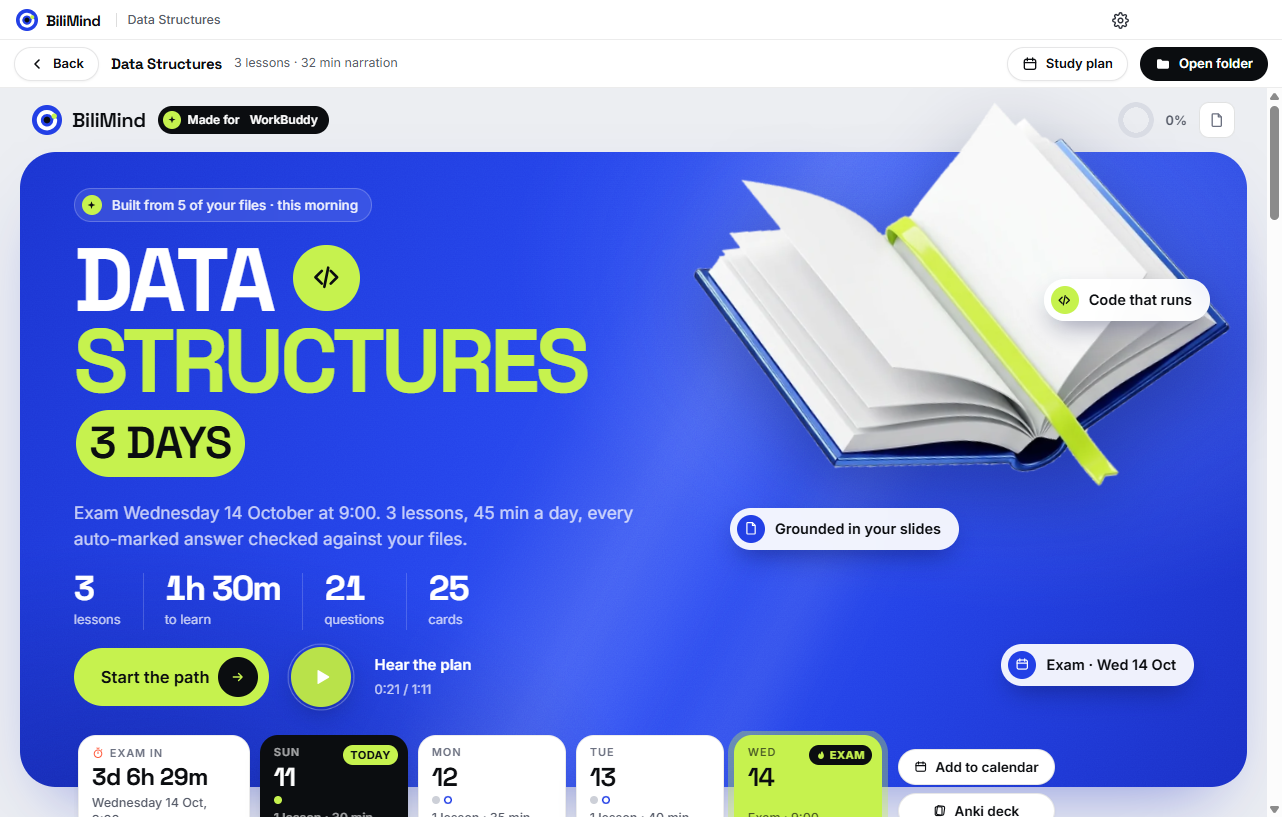
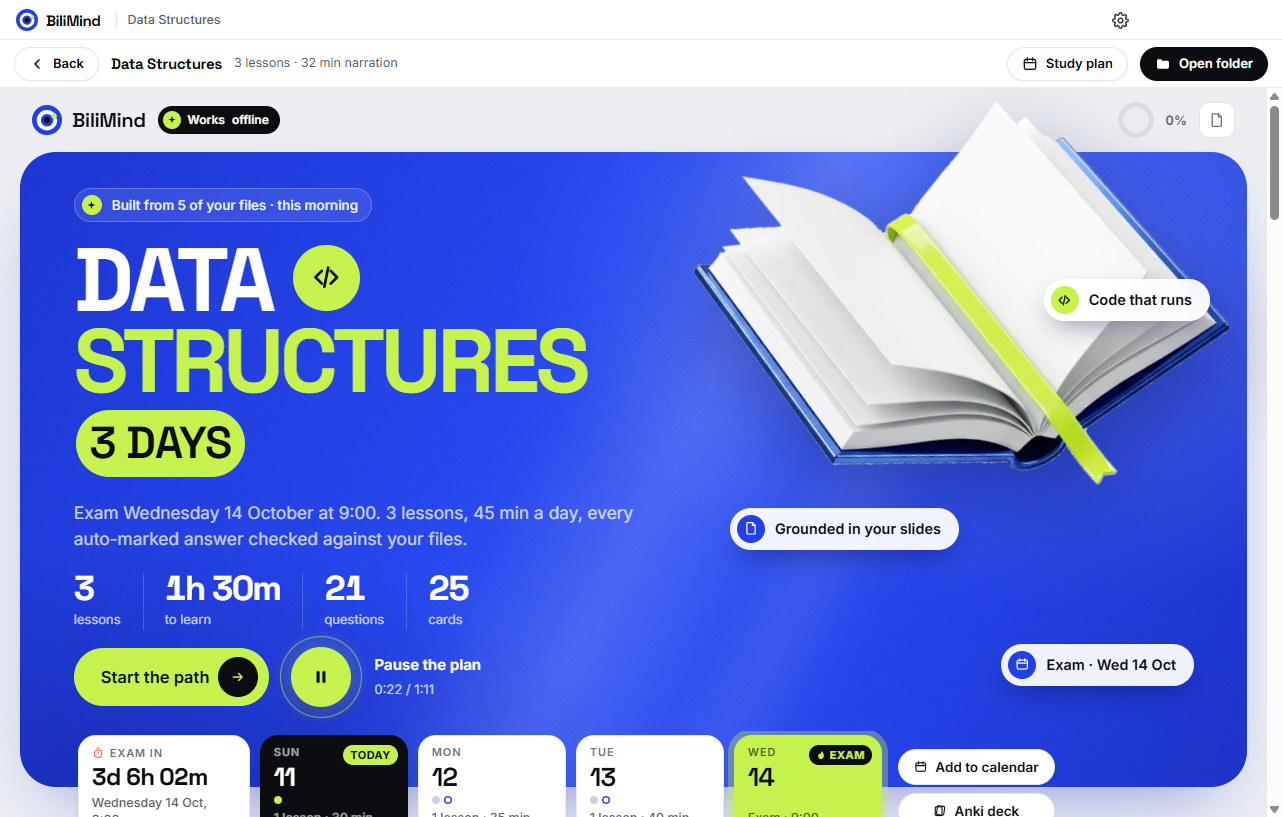
Record the Sunday WorkBuddy work and drop stale images

diff --git a/docs/workbuddy.md b/docs/workbuddy.md
@@ -13,22 +13,23 @@ and BiliMind also ships as a WorkBuddy skill and Expert Team so WorkBuddy users 
 
 | # | Where | Scenario | Proof |
 |---|---|---|---|
-| a | WorkBuddy web app, Slides Creation | Generated our pitch deck from a written brief and screenshots, then reviewed and corrected it slide by slide | Task https://www.workbuddy.ai/app/task/2108960359124951040, `hackathon/proof/workbuddy-web-deck-task.jpg`, `hackathon/proof/workbuddy-web-deck-slide5-review.jpg`, `pitch/BiliMind-Dormathon-Deck.pdf` |
+| a | WorkBuddy web app, Slides Creation | Generated the first version of our pitch deck from a written brief and screenshots, then reviewed and corrected it slide by slide | Task https://www.workbuddy.ai/app/task/2108960359124951040, `hackathon/proof/workbuddy-web-deck-task.jpg`, `hackathon/proof/workbuddy-web-deck-slide5-review.jpg`, `hackathon/proof/workbuddy-deck-v1.pdf` |
 | b | WorkBuddy web app, plain chat | Sent our student request to plain WorkBuddy to see what a general agent does without BiliMind | Task https://www.workbuddy.ai/app/task/2108963860471234560, `hackathon/proof/workbuddy-web-plain-comparison.jpg` |
 | c | WorkBuddy desktop app | Studied its skill and Expert Team format and shipped BiliMind as a WorkBuddy skill and Expert Team, validated with WorkBuddy's own `validate_expert.py` | `skills/bilimind/`, `workbuddy/bilimind-crew/`, `hackathon/SPIKE.md`, `hackathon/EXPERT-TEAM.md` |
 | d | WorkBuddy web app, Deep Research | Market validation (Sunday 01:47 to 01:57 MYT): demand on both halves of Track 2 (students and small businesses), competitors and risks | Task https://www.workbuddy.ai/app/task/2108977764853211136, `hackathon/proof/workbuddy-market-validation.md`, `hackathon/proof/workbuddy-web-market-research.jpg` |
-| e | WorkBuddy (Sunday) | Documentation review and an app review | See [More WorkBuddy work on Sunday](#more-workbuddy-work-on-sunday) |
+| e | WorkBuddy web app, Slides Creation | A second deck run for the desktop app from our brief (its sandbox could not read the attached screenshots, so the final deck was built from the app's HTML) | Task https://www.workbuddy.ai/app/task/2108988088788561920 |
 
-## (a) The pitch deck, made in WorkBuddy
+## (a) The first pitch deck, made in WorkBuddy
 
 - **Where:** the WorkBuddy web app (workbuddy.ai/app), Slides Creation.
 - **How:** we wrote an 8-slide brief (`hackathon/SLIDES-BRIEF.md`: structure, style, real numbers only) and
   attached five screenshots (`hackathon/proof/deck-assets/`). WorkBuddy generated the deck; we reviewed it
   slide by slide, asked WorkBuddy for four factual corrections and downloaded the PDF
-  (`pitch/BiliMind-Dormathon-Deck.pdf`).
+  (`hackathon/proof/workbuddy-deck-v1.pdf`).
 - **When:** Sunday 11 October, about 00:38 to 01:07 MYT.
-- **Next:** the deck is regenerated in WorkBuddy for the desktop app from the new brief in
-  `hackathon/SLIDES-BRIEF.md`.
+- **Then:** that deck described the earlier WorkBuddy-skill version. The final deck for the desktop app
+  (`pitch/BiliMind-Desktop-Deck.pdf`) was built by our team from the app's own screens, outside WorkBuddy;
+  the WorkBuddy deck is kept as proof.
 
 ## (b) Plain WorkBuddy on the same student request
 
@@ -70,15 +71,14 @@ and BiliMind also ships as a WorkBuddy skill and Expert Team so WorkBuddy users 
 
 | When (MYT) | What we did in WorkBuddy | Proof |
 |---|---|---|
-| Sun 11 Oct | Documentation review: README and docs reviewed in WorkBuddy for clarity and accuracy | (pending) |
-| Sun 11 Oct | App review: BiliMind Desktop reviewed in WorkBuddy (flow, wording, first-run experience) | (pending) |
-| Sun 11 Oct | Pitch deck regenerated for the desktop app in Slides Creation | (pending) |
+| Sun 11 Oct, 01:47-01:57 | Market validation with Deep Research: student AI use and trust, Malaysian F&B staff turnover, competitor table, risks. We kept its numbers and corrected its cost estimate with our measured runs | https://www.workbuddy.ai/app/task/2108977764853211136, `hackathon/proof/workbuddy-market-validation.md`, `hackathon/proof/workbuddy-web-market-research.jpg` |
+| Sun 11 Oct, 02:28 | Slides Creation run for the desktop deck from `hackathon/SLIDES-BRIEF.md` and four app screenshots. WorkBuddy's sandbox could not read the attached images, so our final deck was built from the app's own HTML (`pitch/deck/`) | https://www.workbuddy.ai/app/task/2108988088788561920 |
 
 ## Credits and cost
 
 | Pool | What it paid for | Measured |
 |---|---|---|
-| WorkBuddy credits | The deck, the comparison and the reviews above | Not itemised |
+| WorkBuddy credits | The first deck, the comparison, the market research and the second deck run | Not itemised |
 | DeepSeek or OpenRouter (user's own key) | Course text in the desktop app | About $0.05 per course in unattended runs ($0.046 and $0.047); showcase courses $0.040, $0.094 and $0.055 |
 | Edge voices | Narration | Free |
 

diff --git a/hackathon/research/pitch.md b/hackathon/research/pitch.md
@@ -1,6 +1,6 @@
 # BiliMind for WorkBuddy: hackathon strategy and pitch
 
-Dormathon at Taylor's University. Track 2: WorkBuddy, agentic solutions.
+Dormathon at Taylor's University. Track 2: "How can AI help students and small businesses solve real business problems and operate more effectively?" (earlier strategy notes for the WorkBuddy-skill version; the product is now BiliMind Desktop).
 Team: Opus Magnum (#58), Taylor's University branch: Oybek Odilov, Abdugaffor Odilov, Ramil Khutlimuratov and Gameel Al-Bazeeli.
 Status: complete (2026-10-10). Sections: 0 bet, 1 problem evidence, 2 competitor gap,
 3 judging criteria, 4 pitch + demo scripts, 5 showcase courses, 6 name and tagline, 7 Q&A,

diff --git a/hackathon/proof/deck-assets/00-brief.md b/hackathon/proof/deck-assets/00-brief.md
@@ -1,3 +1,5 @@
+> Superseded first brief (Sun 00:38) for the WorkBuddy-skill version; its claims are not current. See hackathon/SLIDES-BRIEF.md.
+
 Attached: 01-landing.jpg (landing page hero), 02-ds-home.jpg (course home), 03-ds-lesson.jpg (a lesson), 04-teabar-home.jpg (the shop onboarding course), 05-malay-lesson.jpg (Malay course lesson). Use them as the slide visuals.
 
 # Pitch deck brief (for WorkBuddy "Slides Creation")
